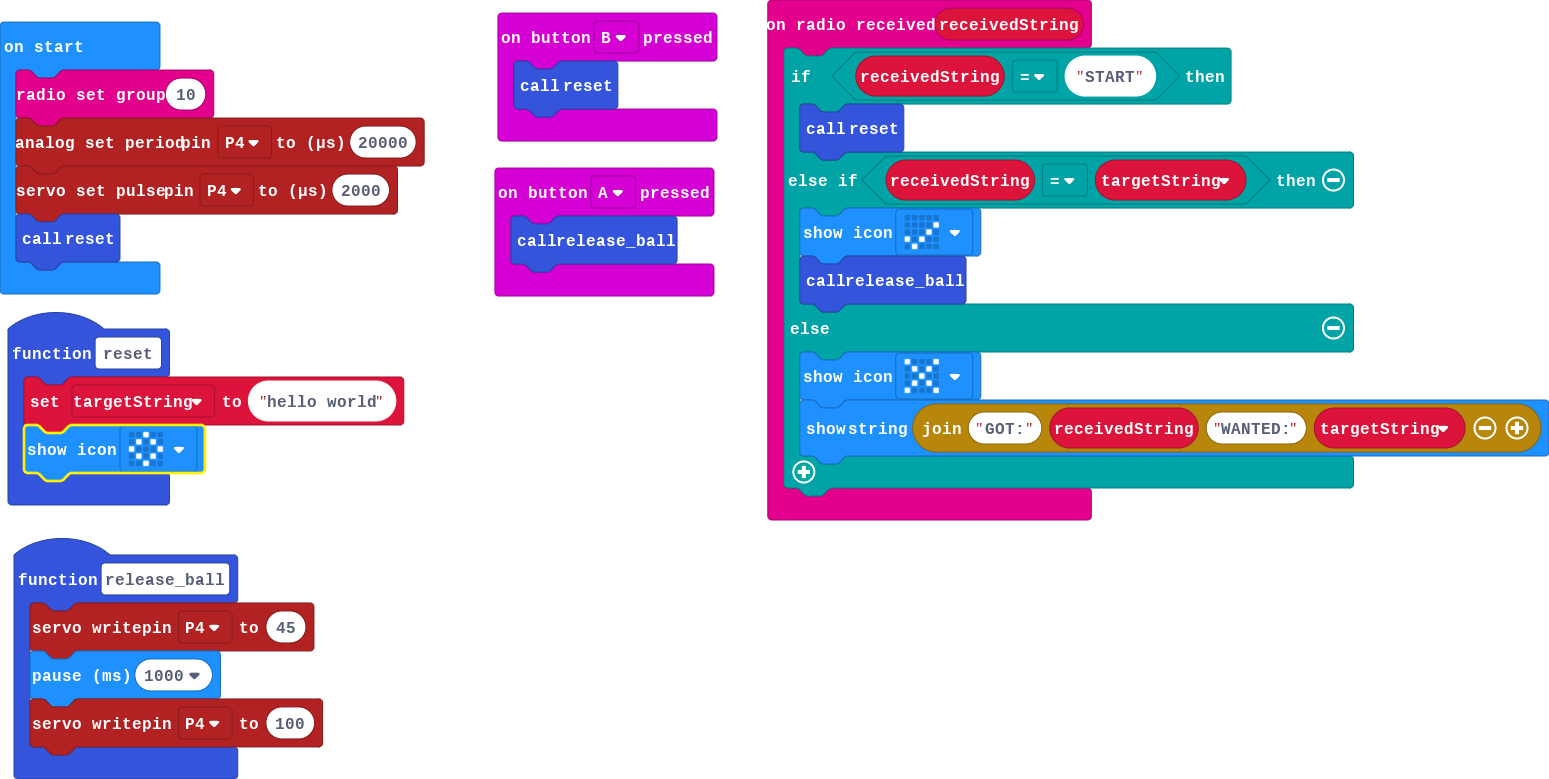
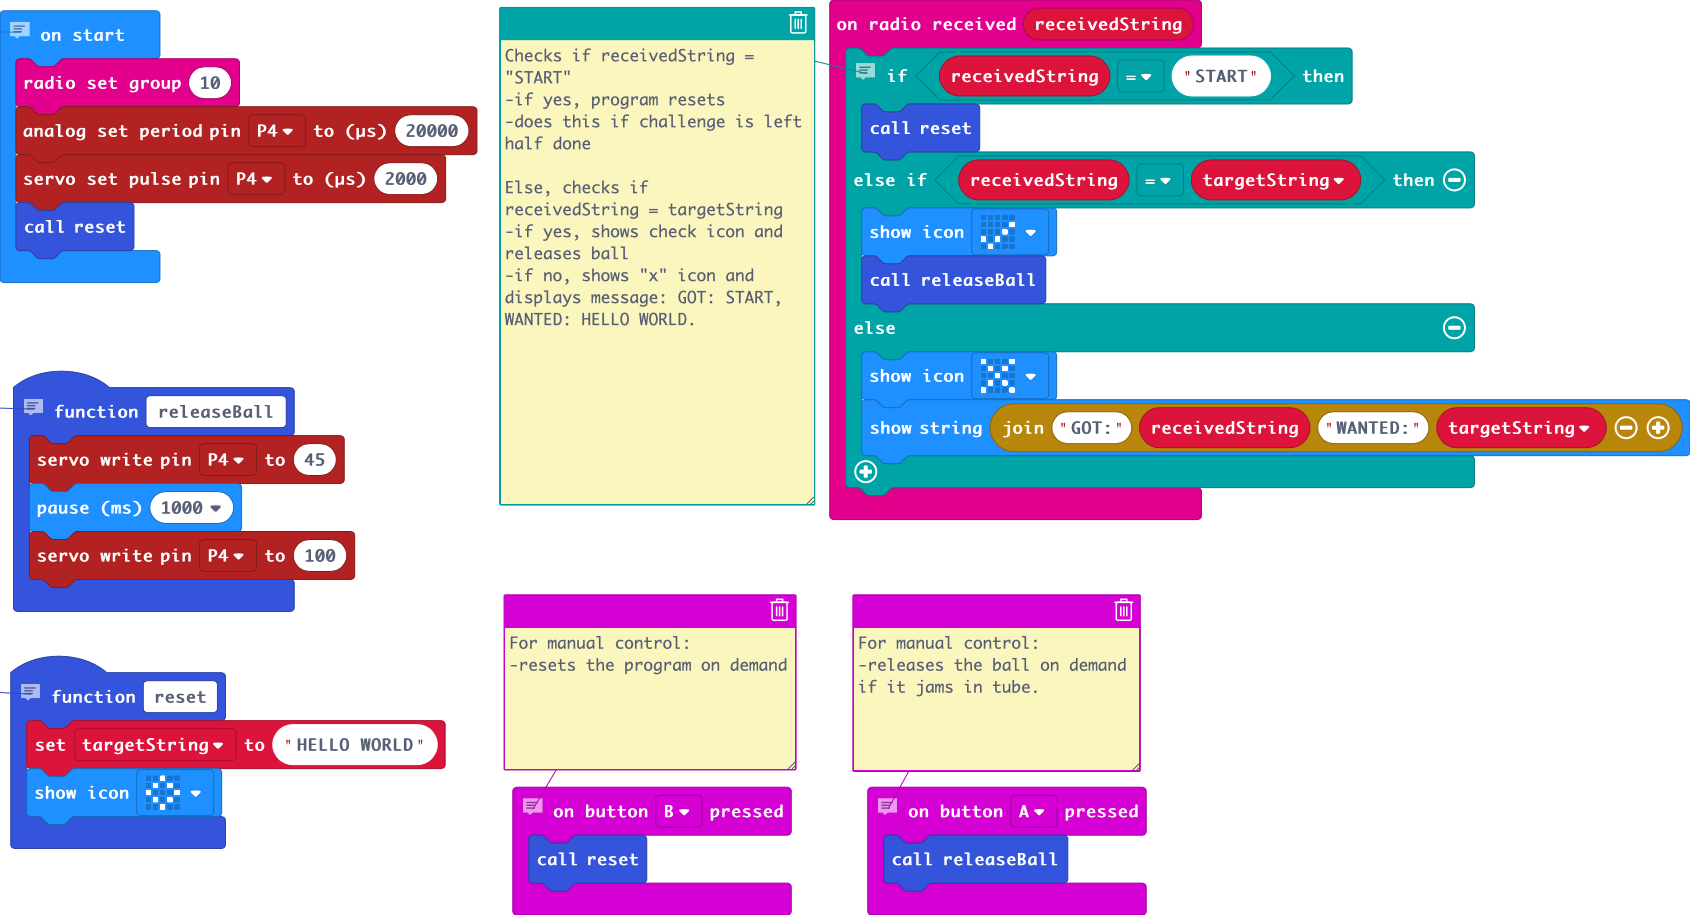
Comment code

diff --git a/main.ts b/main.ts
@@ -1,28 +1,61 @@
-function release_ball () {
-    pins.servoWritePin(AnalogPin.P4, 45)
-    basic.pause(1000)
-    pins.servoWritePin(AnalogPin.P4, 100)
-}
 radio.onReceivedString(function (receivedString) {
+    // Checks if receivedString = "START"
+    //
+    // -if yes, program resets
+    //
+    // -does this if challenge is left half done
+    //
+    //
+    // Else, checks if 
+    //
+    // receivedString = targetString
+    //
+    // -if yes, shows check icon and releases ball
+    //
+    // -if no, shows "x" icon and displays message: GOT:
+    // START, WANTED: HELLO WORLD.
     if (receivedString == "START") {
         reset()
     } else if (receivedString == targetString) {
         basic.showIcon(IconNames.Yes)
-        release_ball()
+        releaseBall()
     } else {
         basic.showIcon(IconNames.No)
         basic.showString("GOT:" + receivedString + "WANTED:" + targetString)
     }
 })
+// Drops the ball:
+//
+// -pushes ball 
+//
+// -waits 1 sec
+//
+// -moves motor back
+function releaseBall () {
+    pins.servoWritePin(AnalogPin.P4, 45)
+    basic.pause(1000)
+    pins.servoWritePin(AnalogPin.P4, 100)
+}
+// For manual control:
+//
+// -resets the program on demand
 input.onButtonPressed(Button.B, function () {
     reset()
 })
+// Resets the program:
+//
+// -sets targetString to "hello world"
+//
+// -sets icon to diamond
 function reset () {
-    targetString = "hello world"
+    targetString = "HELLO WORLD"
     basic.showIcon(IconNames.Diamond)
 }
+// For manual control:
+//
+// -releases the ball on demand if it jams in tube.
 input.onButtonPressed(Button.A, function () {
-    release_ball()
+    releaseBall()
 })
 let targetString = ""
 radio.setGroup(10)
